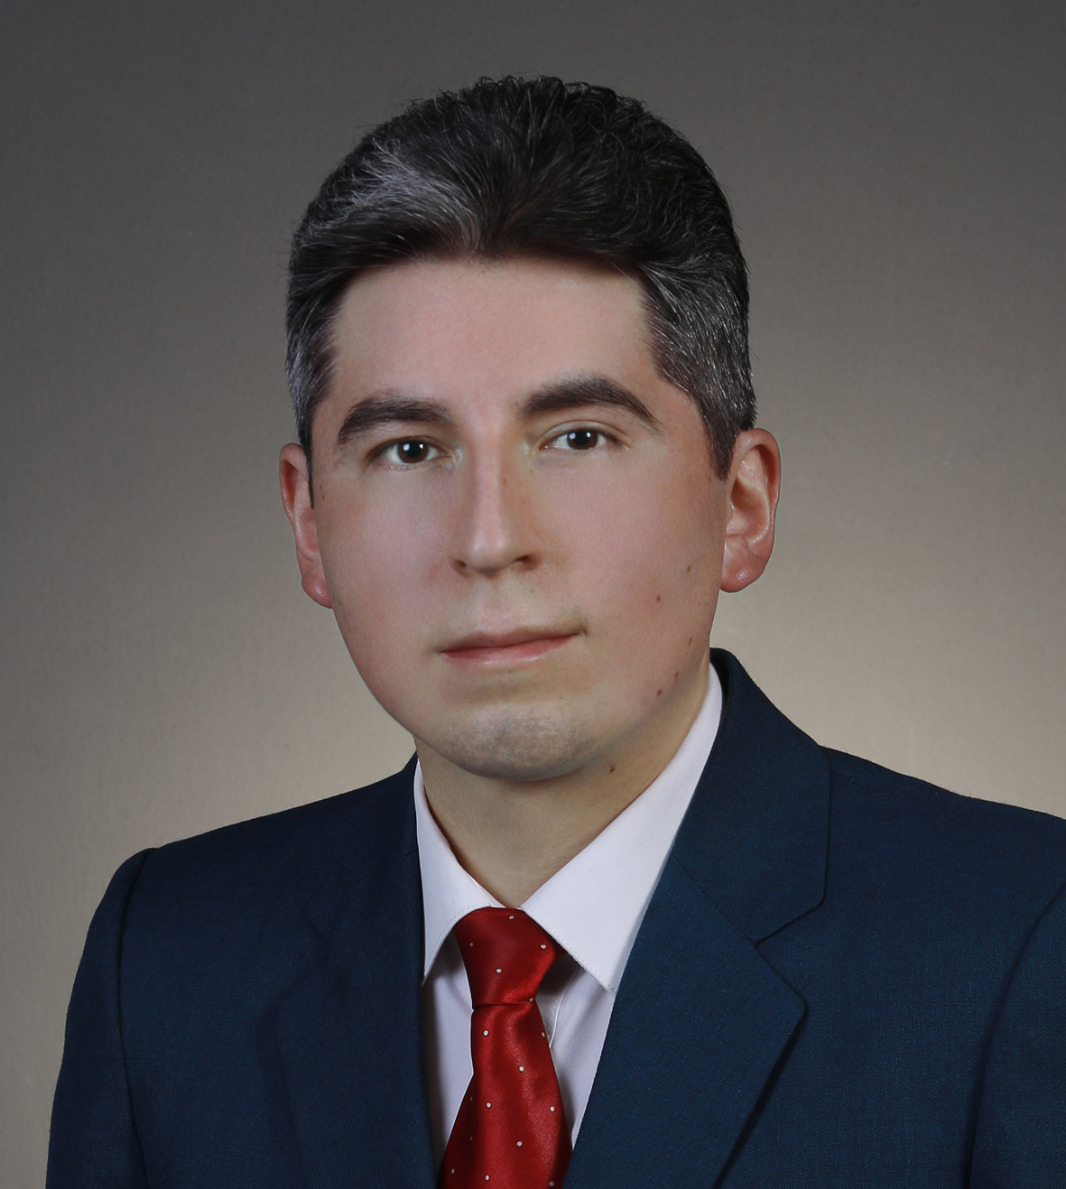
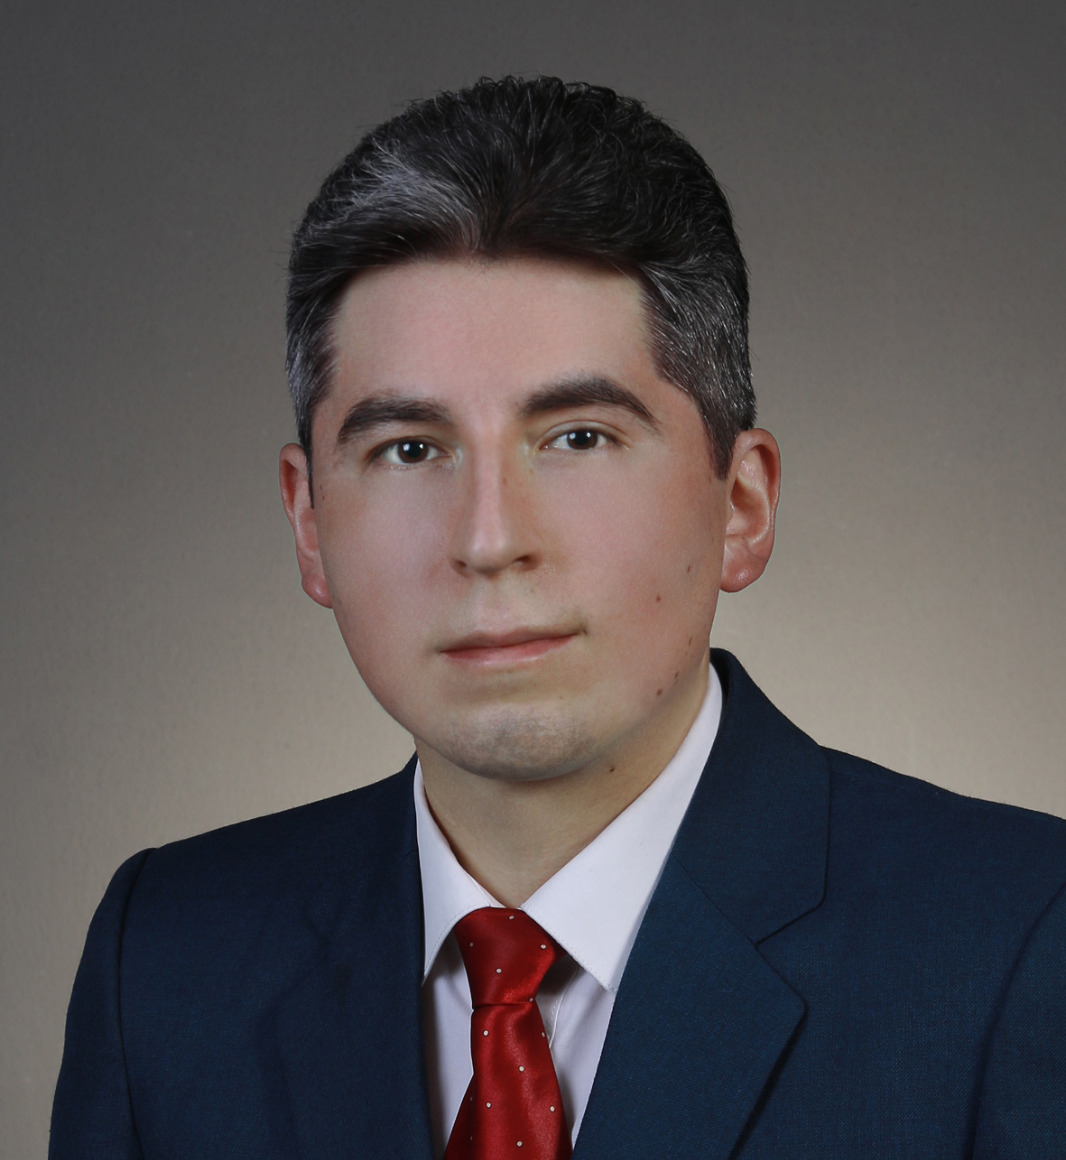
Update 2

diff --git a/docs/styles.css b/docs/styles.css
@@ -41,53 +41,8 @@ main {
   margin-bottom: 0.25rem;
 }
 
-/* Homepage introduction */
-
-.home-intro {
-  display: flex;
-  align-items: flex-start;
-  gap: 3rem;
-  margin-top: 1rem;
-  margin-bottom: 2.5rem;
-}
-
-.home-text {
-  flex: 1;
-}
-
-.home-photo {
-  flex: 0 0 240px;
-}
-
-.profile-photo {
-  display: block;
-  width: 100%;
-  max-width: 240px;
-  height: auto;
-  margin: 0 auto;
-  border-radius: 8px;
-  box-shadow: 0 3px 12px rgba(0, 0, 0, 0.12);
-}
-
-.contact-links {
-  margin-top: 0.75rem;
-  font-weight: 500;
-}
-
-/* Adjust the homepage for phones and narrow screens */
-
-@media (max-width: 768px) {
-  .home-intro {
-    flex-direction: column-reverse;
-    gap: 1.5rem;
-  }
-
-  .home-photo {
-    flex: none;
-    width: 100%;
-  }
-
-  .profile-photo {
-    max-width: 210px;
-  }
+.about-image {
+  width: 200px;
+  height: 200px;
+  object-fit: cover;
 }

diff --git a/styles.css b/styles.css
@@ -41,53 +41,8 @@ main {
   margin-bottom: 0.25rem;
 }
 
-/* Homepage introduction */
-
-.home-intro {
-  display: flex;
-  align-items: flex-start;
-  gap: 3rem;
-  margin-top: 1rem;
-  margin-bottom: 2.5rem;
-}
-
-.home-text {
-  flex: 1;
-}
-
-.home-photo {
-  flex: 0 0 240px;
-}
-
-.profile-photo {
-  display: block;
-  width: 100%;
-  max-width: 240px;
-  height: auto;
-  margin: 0 auto;
-  border-radius: 8px;
-  box-shadow: 0 3px 12px rgba(0, 0, 0, 0.12);
-}
-
-.contact-links {
-  margin-top: 0.75rem;
-  font-weight: 500;
-}
-
-/* Adjust the homepage for phones and narrow screens */
-
-@media (max-width: 768px) {
-  .home-intro {
-    flex-direction: column-reverse;
-    gap: 1.5rem;
-  }
-
-  .home-photo {
-    flex: none;
-    width: 100%;
-  }
-
-  .profile-photo {
-    max-width: 210px;
-  }
+.about-image {
+  width: 200px;
+  height: 200px;
+  object-fit: cover;
 }

diff --git a/docs/index.html b/docs/index.html
@@ -127,7 +127,6 @@ ul.task-list li input[type="checkbox"] {
 <header id="title-block-header" class="quarto-title-block default">
 <div class="quarto-title">
 <h1 class="title">Einar Paz</h1>
-<p class="subtitle lead">PhD Student <br> Department of Economics</p>
 </div>
 <div class="quarto-title-meta">
   </div>